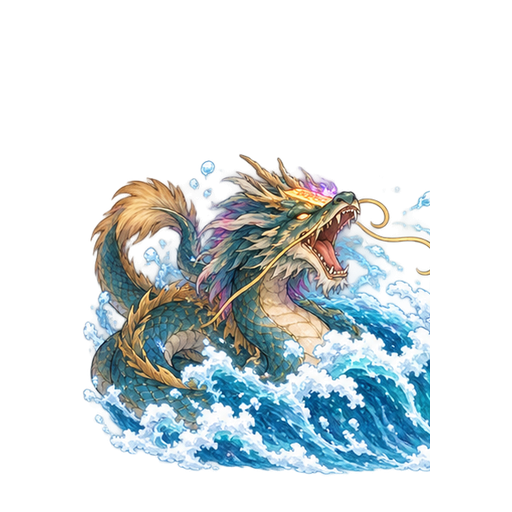
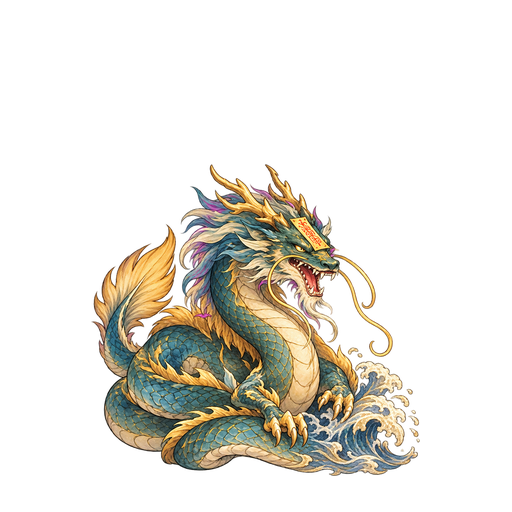
v58 河伯戰 UI 圖示與水系特效圖入庫（Codex 製作），重畫濁浪姿勢，加入素材驗收測試
Claude-Session: https://claude.ai/code/session_012hxEHnLvCbmtScRwYicbh3

diff --git a/index.html b/index.html
@@ -1,35 +1,35 @@
-<!doctype html><html lang="zh-Hant"><head><link rel="icon" href="data:,"><meta charset="utf-8"><meta name="viewport" content="width=device-width,initial-scale=1,user-scalable=no,viewport-fit=cover"><meta name="apple-mobile-web-app-capable" content="yes"><meta http-equiv="Cache-Control" content="no-cache, no-store, must-revalidate"><meta http-equiv="Pragma" content="no-cache"><meta http-equiv="Expires" content="0"><title>雲渡仙緣 第一章 v57</title>
+<!doctype html><html lang="zh-Hant"><head><link rel="icon" href="data:,"><meta charset="utf-8"><meta name="viewport" content="width=device-width,initial-scale=1,user-scalable=no,viewport-fit=cover"><meta name="apple-mobile-web-app-capable" content="yes"><meta http-equiv="Cache-Control" content="no-cache, no-store, must-revalidate"><meta http-equiv="Pragma" content="no-cache"><meta http-equiv="Expires" content="0"><title>雲渡仙緣 第一章 v58</title>
 <style>html,body{margin:0;height:100%;overflow:hidden;overscroll-behavior:none;background:#000;touch-action:none;-webkit-touch-callout:none;-webkit-user-select:none;user-select:none;-webkit-tap-highlight-color:transparent}
 #c{position:fixed;left:0;top:0;width:100vw;height:100vh;display:block}
 #tip{position:fixed;left:50%;transform:translateX(-50%);bottom:calc(6px + env(safe-area-inset-bottom));color:#ccc;font:13px sans-serif;background:rgba(0,0,0,.5);padding:3px 10px;border-radius:8px}.touch #tip{display:none}</style></head><body>
 <canvas id="c"></canvas><div id="tip">方向鍵/WASD 移動・空白鍵/Enter 確定(A)・Esc/X 取消/狀態(B)・M 選單</div>
 
-<script src="src/joystick.js?v=57"></script>
-<script src="src/assets.js?v=57"></script>
-<script src="src/engine.js?v=57"></script>
-<script src="src/data.js?v=57"></script>
-<script src="src/reeds_layout.js?v=57"></script>
-<script src="src/reeds_map.js?v=57"></script>
-<script src="src/temple_layout.js?v=57"></script>
-<script src="src/temple_map.js?v=57"></script>
-<script src="src/maps.js?v=57"></script>
-<script src="src/script.js?v=57"></script>
-<script src="src/story.js?v=57"></script>
-<script src="src/village_explore.js?v=57"></script>
-<script src="src/battle.js?v=57"></script>
-<script src="src/input.js?v=57"></script>
-<script src="src/update.js?v=57"></script>
-<script src="src/ui.js?v=57"></script>
-<script src="src/cinematics.js?v=57"></script>
-<script src="src/render.js?v=57"></script>
-<script src="src/audio_assets.js?v=57"></script>
-<script src="src/audio.js?v=57"></script>
-<script src="src/audio_playback.js?v=57"></script>
-<script src="src/fx.js?v=57"></script>
-<script src="src/battle_motion.js?v=57"></script>
-<script src="src/battle_ui.js?v=57"></script>
-<script src="src/screens.js?v=57"></script>
-<script src="src/save.js?v=57"></script>
-<script src="src/exploration_ui.js?v=57"></script>
-<script src="src/main.js?v=57"></script>
+<script src="src/joystick.js?v=58"></script>
+<script src="src/assets.js?v=58"></script>
+<script src="src/engine.js?v=58"></script>
+<script src="src/data.js?v=58"></script>
+<script src="src/reeds_layout.js?v=58"></script>
+<script src="src/reeds_map.js?v=58"></script>
+<script src="src/temple_layout.js?v=58"></script>
+<script src="src/temple_map.js?v=58"></script>
+<script src="src/maps.js?v=58"></script>
+<script src="src/script.js?v=58"></script>
+<script src="src/story.js?v=58"></script>
+<script src="src/village_explore.js?v=58"></script>
+<script src="src/battle.js?v=58"></script>
+<script src="src/input.js?v=58"></script>
+<script src="src/update.js?v=58"></script>
+<script src="src/ui.js?v=58"></script>
+<script src="src/cinematics.js?v=58"></script>
+<script src="src/render.js?v=58"></script>
+<script src="src/audio_assets.js?v=58"></script>
+<script src="src/audio.js?v=58"></script>
+<script src="src/audio_playback.js?v=58"></script>
+<script src="src/fx.js?v=58"></script>
+<script src="src/battle_motion.js?v=58"></script>
+<script src="src/battle_ui.js?v=58"></script>
+<script src="src/screens.js?v=58"></script>
+<script src="src/save.js?v=58"></script>
+<script src="src/exploration_ui.js?v=58"></script>
+<script src="src/main.js?v=58"></script>
 </body></html>

diff --git a/src/screens.js b/src/screens.js
@@ -6,7 +6,7 @@ function drawTitle(now){UI();X.fillStyle='#000';X.fillRect(0,0,SW,SH);const c=co
  X.save();X.shadowColor='#000';X.shadowBlur=12;txt('雲渡仙緣',SW/2,ty,big,'#f3dfa0','center');txt('第一章〈夜渡〉',SW/2,ty+big*.75,big*.38,'#cfe','center');X.restore();
  if(G.cred){X.fillStyle='rgba(0,0,20,.82)';X.fillRect(0,0,SW,SH);const L=CREDITS;L.forEach((l,i)=>txt(l,SW/2,SA.t+60+i*(fs+12),i?fs-1:fs+4,i?'#e8e8f0':'#f3dfa0','center'));return}
  if(!SV.p&&Math.floor(t*1.6)%2)txt(JOY.touch?'按 A 開始':'按 Enter／空白鍵 開始',SW/2,SH-SA.b-(JOY.touch?230:70),fs+3,'#fff','center');
- txt('版本 v57',SW-SA.r-94,SA.t+fs+4,fs-3,'#cde','right');if(!SV.p)txt(JOY.touch?'B：素材來源 CREDITS':'C／Esc：素材來源 CREDITS',SW/2,SH-SA.b-(JOY.touch?200:40),fs-3,'#cde','center');
+ txt('版本 v58',SW-SA.r-94,SA.t+fs+4,fs-3,'#cde','right');if(!SV.p)txt(JOY.touch?'B：素材來源 CREDITS':'C／Esc：素材來源 CREDITS',SW/2,SH-SA.b-(JOY.touch?200:40),fs-3,'#cde','center');
  if(!ready)txt('載入中…',SW/2,SH/2,fs,'#fff','center')}
 const CREDITS=['【CREDITS 素材來源】','','角色、場景、道具、敵人、立繪、背景：','本作原創 AI 生成手繪風素材','（色鍵去背後合成）','戰鬥背景：OpenAI image_gen','程式、劇情：《雲渡仙緣》原創','音樂與音效：使用者提供（v33）','','按 B／C／Esc 返回'];
 function drawOver(){UI();X.fillStyle='#200';X.fillRect(0,0,SW,SH);const fs=FS();txt('勝敗乃兵家常事',SW/2,SH*.42,fs*2,'#f88','center');txt('按 A／確定 重新挑戰',SW/2,SH*.42+fs*3,fs,'#fff','center')}

diff --git a/src/assets.js b/src/assets.js
@@ -1,7 +1,7 @@
 'use strict';
 // 圖片清單：key -> assets/img 路徑（勿改回 base64 內嵌）
 // 圖片網址會加上 ?v=ASSET_V（與 index.html 的 ?v=N 同步）。改 sprite 規格／換圖時一定要一起 +1，避免舊 JS 畫新圖或新 JS 畫舊快取圖
-const ASSET_V=57;
+const ASSET_V=58;
 const ASSETS={
  "shui_idle0": "assets/img/shui_idle0.webp",
  "shui_idle1": "assets/img/shui_idle1.webp",
@@ -36,6 +36,23 @@ const ASSETS={
  "hebo_rage1": "assets/img/hebo_rage1.webp",
  "hebo_wave": "assets/img/hebo_wave.webp",
  "fx_whirl": "assets/img/fx_whirl.webp",
+ "ui_intent_tail": "assets/img/ui_intent_tail.webp",
+ "ui_intent_charge": "assets/img/ui_intent_charge.webp",
+ "ui_intent_wave": "assets/img/ui_intent_wave.webp",
+ "ui_intent_stagger": "assets/img/ui_intent_stagger.webp",
+ "ui_intent_drink": "assets/img/ui_intent_drink.webp",
+ "ui_intent_whirl": "assets/img/ui_intent_whirl.webp",
+ "ui_tide_ebb": "assets/img/ui_tide_ebb.webp",
+ "ui_tide_mid": "assets/img/ui_tide_mid.webp",
+ "ui_tide_rise": "assets/img/ui_tide_rise.webp",
+ "ui_qi_empty": "assets/img/ui_qi_empty.webp",
+ "ui_qi_full": "assets/img/ui_qi_full.webp",
+ "ui_tide_gauge": "assets/img/ui_tide_gauge.webp",
+ "ui_tide_marker": "assets/img/ui_tide_marker.webp",
+ "fx_tail_sweep": "assets/img/fx_tail_sweep.webp",
+ "fx_wave_big": "assets/img/fx_wave_big.webp",
+ "fx_splash": "assets/img/fx_splash.webp",
+ "fx_charge_ring": "assets/img/fx_charge_ring.webp",
  "qzd_idle0": "assets/img/qzd_idle0.webp",
  "qzd_idle1": "assets/img/qzd_idle1.webp",
  "qzd_charge": "assets/img/qzd_charge.webp",

diff --git a/src/render.js b/src/render.js
@@ -49,7 +49,7 @@ function drawWorld(now){const t=now/1000;
   const L=SA.l+30,R=SW-SA.r-30,Tp=SA.t+fs*2+40,Bt=SH-SA.b-(JOY.touch?190:30);
   if(sx>L&&sx<R&&sy>Tp&&sy<Bt){txt('▼ 渡船',sx,sy-6+bob,fs+2,'#ffe9a8','center')}
   else{const ax=Math.max(L+20,Math.min(R-20,sx)),ay=Math.max(Tp,Math.min(Bt,sy)),an=Math.atan2(sy-ay,sx-ax);X.save();X.translate(ax,ay);X.fillStyle='rgba(0,0,0,.55)';X.beginPath();X.arc(0,0,fs*1.7,0,7);X.fill();X.rotate(an);X.fillStyle='#ffe9a8';X.beginPath();X.moveTo(fs*1.5+bob/2,0);X.lineTo(fs*.6,-fs*.7);X.lineTo(fs*.6,fs*.7);X.fill();X.restore();txt('渡船',ax,ay+fs*.4,fs-2,'#fff','center')}}}
- txt('v57',SW-SA.r-6,SH-SA.b-4,Math.max(10,fs-6),'rgba(255,255,255,.6)','right');
+ txt('v58',SW-SA.r-6,SH-SA.b-4,Math.max(10,fs-6),'rgba(255,255,255,.6)','right');
  const at=now-G.lt;if((M.id=='temple'||M.templeMap)&&at<2600){X.globalAlpha=Math.min(1,Math.max(0,1-(at-1600)/1000));X.fillStyle='#000';X.fillRect(0,0,SW,SH);cover(I.ext);const fs2=fs+6;box(SW/2-80,SH*.7,160,fs2+22);txt(M.name||'河神廟',SW/2,SH*.7+fs2+6,fs2,'#f3dfa0','center');X.globalAlpha=1}}
 function dlgTop(){return JOY.touch&&SW>SH}
 function drawBoat(now){drawNightScene(now)}

diff --git a/docs/art/hebo-ui-fx/README.md b/docs/art/hebo-ui-fx/README.md
@@ -1,0 +1,60 @@
+# 河伯戰 UI 與水系特效素材
+
+本資料夾包含 18 張獨立的 lossless WebP 遊戲素材、檢視接觸表和驗證腳本。圖像以原創生成方式製作，沿用第一章夜藍、灰青、克制金色的色調及水彩淡墨線條。
+
+## 素材清單
+
+| 檔案 | 尺寸 | 用途 |
+|---|---:|---|
+| ui_intent_tail.webp | 128×128 | 龍尾橫掃預告 |
+| ui_intent_charge.webp | 128×128 | 蓄力預告 |
+| ui_intent_wave.webp | 128×128 | 濁浪預告 |
+| ui_intent_stagger.webp | 128×128 | 失衡預告 |
+| ui_intent_drink.webp | 128×128 | 吞水預告 |
+| ui_intent_whirl.webp | 128×128 | 漩渦預告 |
+| ui_tide_ebb.webp | 128×128 | 退潮 |
+| ui_tide_mid.webp | 128×128 | 平潮 |
+| ui_tide_rise.webp | 128×128 | 漲潮 |
+| ui_qi_empty.webp | 96×96 | 暗淡渡氣珠 |
+| ui_qi_full.webp | 96×96 | 發光渡氣珠 |
+| ui_tide_gauge.webp | 64×320 | 三段式水位條外框 |
+| ui_tide_marker.webp | 48×48 | 水位標記 |
+| fx_tail_sweep.webp | 768×384 | 龍尾弧形水鞭 |
+| fx_wave_big.webp | 1536×512 | 橫向濁浪特效 |
+| fx_splash.webp | 512×512 | 水花爆開 |
+| fx_charge_ring.webp | 512×512 | 蓄力水環 |
+| hebo_wave.webp | 512×512 | 河伯釋放濁浪姿勢，取代同名舊圖 |
+
+## 提示詞與來源
+
+來源：OpenAI 內建圖像生成。透明背景使用原生 RGBA。下列為實際使用的提示詞；河伯姿勢第一次生成因濁浪太寬而棄用，以下列的是重新生成的最終提示詞。
+
+### 九張戰鬥／潮汐圖示（3×3 接觸表）
+
+> Create a clean 3-by-3 contact sheet of exactly nine separate, self-contained Chinese fantasy RPG battle UI ICONS, each occupying one equal square cell with generous blank transparent gutters between cells, no cell borders, no labels, no typography, no badges or frames. Overall style: hand-painted watercolor with fine pale ink outlines, subtle gold accents, readable silhouettes at 40px, soft natural forms, transparent RGBA background. Keep each icon entirely within its own square and leave at least 12% transparent margin on all sides. In reading order: 1) dragon tail sweeping in a curved horizontal arc, teal and gold; 2) water spiraling inward to gather into a glowing ball, cool blue-teal; 3) a single rising muddy river wave crest, muted silt-brown and blue-gray; 4) cracked yellow talisman with two small floating dizziness stars, gold and pale violet; 5) clear narrow water stream flowing into an open dragon mouth silhouette, blue-white; 6) oblique top-down compact whirlpool, deep teal and silver foam; 7) ebb tide with exposed riverbed stones and lowered pale blue water; 8) calm mid-tide flat water in white-gray; 9) rising tide with an upward curling small wave in muted amber-gold. No scenery or background, no shadows, no checkerboard. Each cell is one separate icon artwork and not connected to neighboring cells.
+
+### 渡氣珠、水位標記、水位條（2×2 接觸表）
+
+> Create a 2-by-2 sheet of four distinct Chinese fantasy RPG tide HUD assets, each in its own equal 768x768 square cell with broad transparent gutters, no borders, no labels. Watercolor hand-painted ink lines, restrained gold engraving, palette of night-blue and gray-teal, clean transparent alpha. Each object fully inside its cell with generous empty margin; cells are independent and must not touch. Top left: one 96x96-design-size water pearl icon, dimmed translucent dark blue-teal, for empty qi. Top right: matching same-size water pearl, bright luminous jade-gold and cyan, for full qi. Bottom left: isolated 48x48-design-size pale jade water-drop marker with subtle gold edge, centered. Bottom right: a tall narrow 64x320-design-size vertical tide gauge frame with three empty compartments stacked vertically (top rise, middle calm, bottom ebb), delicate antique gold edging, interior truly transparent and empty for programmatic color fill. No background, no shadow, no checkerboard, no extra ornaments outside the listed objects.
+
+### 四張水系戰鬥特效（2×2 接觸表）
+
+> Create a 2-by-2 contact sheet of exactly four distinct isolated battle water VFX illustrations, one centered in each equal square cell with generous blank transparent gutters, no borders, no labels, nothing touching between cells. Original watercolor hand-painted style with delicate ink contouring, cool blue-gray and gray-teal water with white foam, muted silt ochre only where called for. True transparent RGBA background, no checkerboard, no ground, no character, no text. Top-left cell: a long horizontal dragon-tail water whip, sweeping left to right in a graceful arc with droplets trailing, composed to fit a 2:1 landscape frame and entirely visible. Top-right cell: one full-width long muddy teal-brown storm wave, pushing from left to right, curling crest foam, complete rounded leading edge and complete trailing edge visible with clear transparent margin on all sides, composed to fit 3:1 landscape frame. Bottom-left cell: one compact splash burst radiating from center to all sides, no hard cropped edges. Bottom-right cell: a complete circular inward-contracting water ring with a few fine streams of light, for wrapping around a dragon, no hard cropped edges. Every effect fits within its cell; leave at least 12% margin.
+
+### 河伯濁浪姿勢（最終重生版本）
+
+> Redraw the reference river dragon as one compact game sprite for a 512x512 canvas. Preserve the exact same teal coiled dragon anatomy, golden mane/horns, yellow forehead talisman, right-down facing three-quarter angle, and watercolor with fine pale ink outlines. Match the reference sprite's silhouette scale: dragon visible body occupies about 320 pixels wide and 320 pixels tall, centered at x=256, with the bottom coil touching y=476. Action pose: head lifted and roaring, neck arched back. A SMALL contained muddy blue-gray and muted-ochre cresting wave appears immediately in front of the forward claws, attached to the dragon's lower-right silhouette; the wave extends no more than 40 pixels beyond the dragon body on the right and does not form a long horizontal banner. Keep the full dragon plus the compact wave entirely inside the 512 square; visible total width 300-355 pixels, no clipping, transparent margin left and right. The wave occupies at most the bottom-right quarter of the subject. Strongly prioritize the character being the same visual size as the reference, not a wide scene. Transparent RGBA, no background, no ground, no cast shadow, no detached particles, no text.
+
+## 處理方式與品質檢查
+
+- 接觸表按各自格子切開；淡霧背景的 alpha 小於 12 的像素清為透明，河伯邊緣小於 14 的像素清為透明。
+- 以 8 向連通區檢查 alpha；每張成品移除面積小於 30 像素的孤立區塊，再以 LANCZOS 縮放並置中。WebP 使用 lossless 編碼。
+- fx_wave_big.webp 原始浪形比例較窄，為符合全螢幕橫向特效的 1536×512 規格，最後將可見浪形橫向延展至 1450×470，垂直比例不變。這是本批最明顯的手動處理。
+- hebo_wave.webp 以 hebo_idle0.webp 的 alpha 邊界為對齊基準：可見寬度 329px（與舊待機圖相同），中心 x=255.5，底線 y=476。最終新圖可見框為 x=91–420、y=164–476；舊待機圖為 x=91–420、y=148–476。
+- contact.png 同時展示深色底和 bg_temple_v26.webp 戰鬥背景上的所有成品；UI 圖示以 128px 和 40px 兩種預覽檢查辨識度。
+- hebo-ui-fx.mjs 以 Python Pillow、NumPy、SciPy 檢查 WebP 尺寸、透明 alpha、連通碎片、特效邊界留白和河伯姿勢對齊；姿勢基準使用舊圖 hebo_idle0.webp 的已量測邊界 x=91–420、y=148–476。
+
+## 接觸表
+
+![深色底與河神廟戰鬥背景的素材檢視](contact.png)
+
